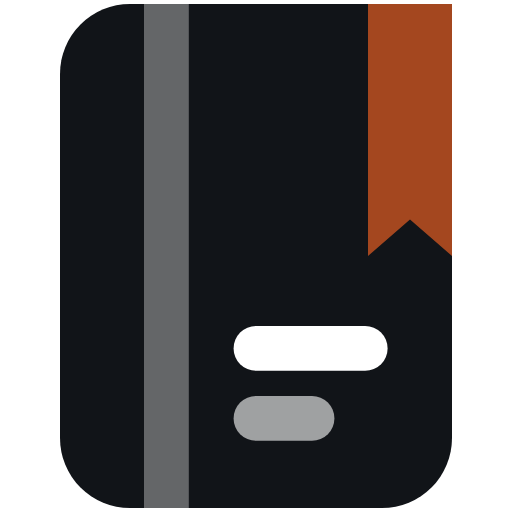
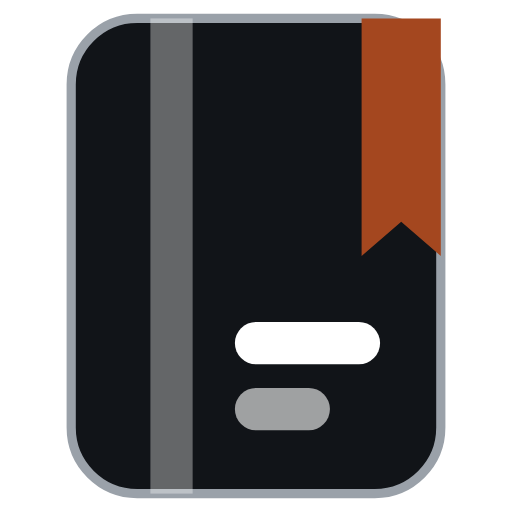
Icone adatte a tema chiaro e scuro [no news]
Claude-Session: https://claude.ai/code/session_011B48L5ZhDqtwPTKetpCRWE

Changed region(s): [[0.0938, 0.0, 0.9062, 1.0], [0.4375, 0.625, 0.7812, 0.875]]

diff --git a/Unisa/index.html b/Unisa/index.html
@@ -6,9 +6,10 @@
 <title>Appunti Unisa</title>
 <meta name="description" content="Gli appunti dei corsi di Informatica all'Università di Salerno, da leggere ovunque.">
 <meta name="theme-color" content="#111418">
-<link rel="icon" href="icon.svg?v=5" type="image/svg+xml">
-<link rel="icon" href="favicon-32.png?v=5" sizes="32x32" type="image/png">
-<link rel="apple-touch-icon" href="apple-touch-icon.png?v=5">
+<link rel="icon" href="icon.svg?v=6" type="image/svg+xml">
+<link rel="icon" href="favicon-32.png?v=6" sizes="32x32" type="image/png" media="(prefers-color-scheme: light)">
+<link rel="icon" href="favicon-32-dark.png?v=6" sizes="32x32" type="image/png" media="(prefers-color-scheme: dark)">
+<link rel="apple-touch-icon" href="apple-touch-icon.png?v=6">
 <link rel="manifest" href="manifest.webmanifest">
 <meta property="og:type" content="website">
 <meta property="og:site_name" content="Appunti Unisa">
